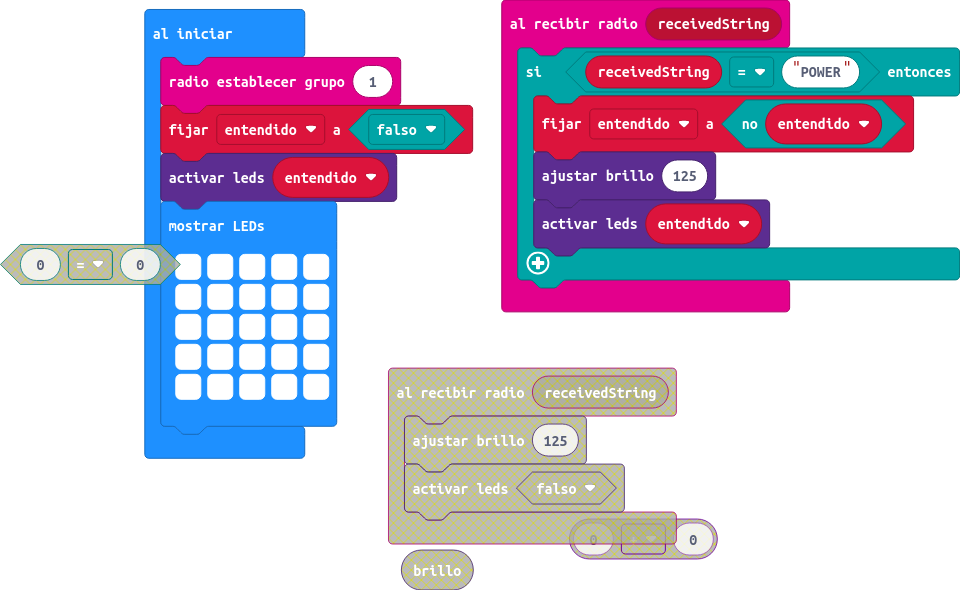
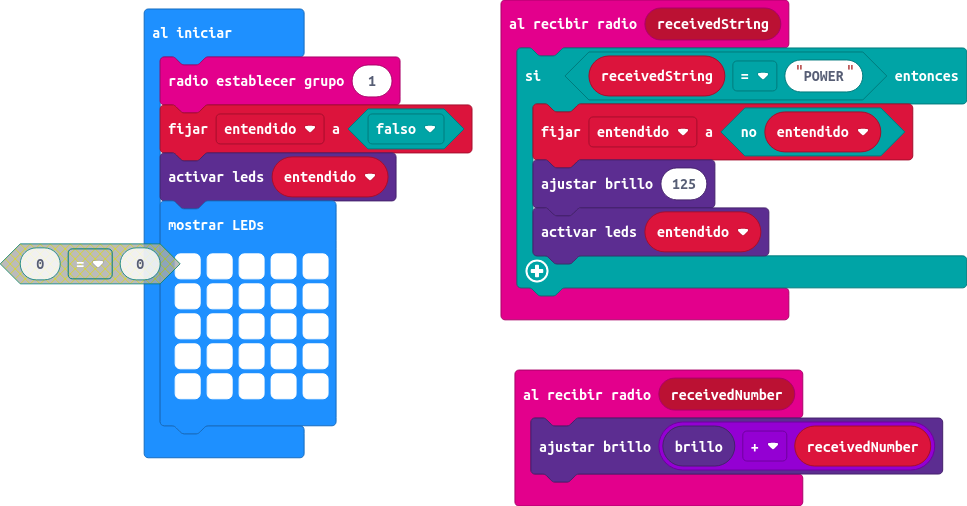
Actualizar main.blocks, main.ts

diff --git a/main.ts b/main.ts
@@ -1,3 +1,6 @@
+radio.onReceivedNumber(function (receivedNumber) {
+    led.setBrightness(led.brightness() + receivedNumber)
+})
 radio.onReceivedString(function (receivedString) {
     if (receivedString == "POWER") {
         entendido = !(entendido)
